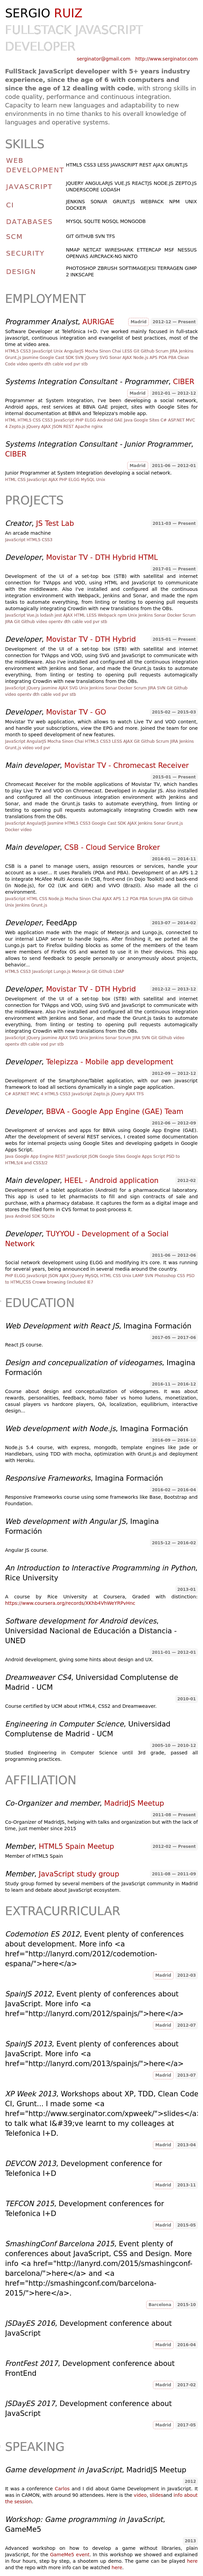
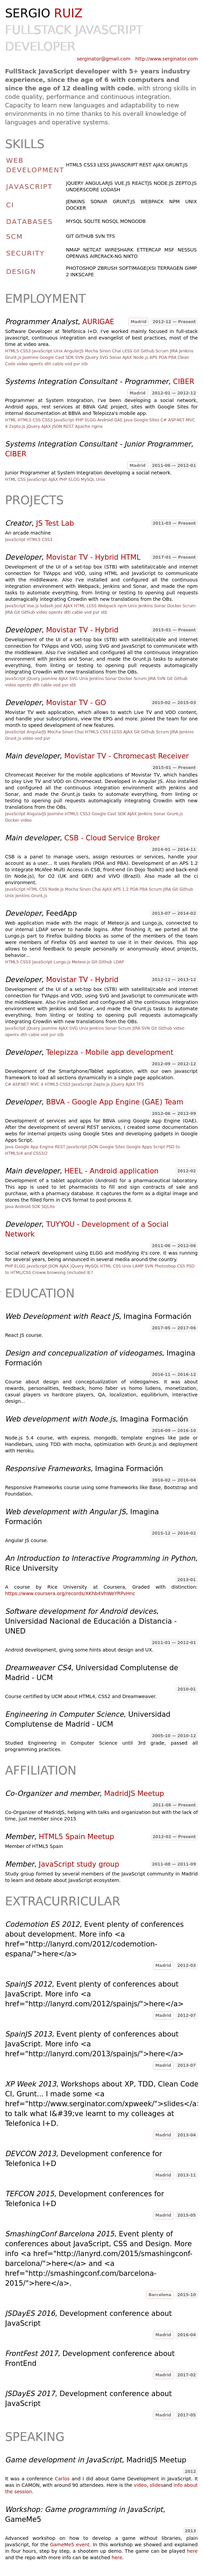
updated

diff --git a/out/resume.pdf.html b/out/resume.pdf.html
@@ -341,19 +341,19 @@ header > span.fa {
           </div>
           <div>
           <h3><em>Developer</em>,
-          <a href="http://www.movistar.com">Movistar TV - DTH Hybrid HTML</a>
+          <a href="http://www.movistar.com">Movistar TV - Hybrid HTML</a>
           </h3>
           <span class="tenure">2017-01 — Present</span>
-          <p>Development of the UI of a set-top box (STB) with satellital and internet connection for TVApps and VOD, using HTML and JavaScript to communicate with the middleware. Also I&#39;ve installed and configured all the continuous integration environment with Webpack, Jenkins and Sonar, and made the npm tasks to automate everything, from linting or testing to opening pull requests automagically integrating Crowdin with new translations from the OBs.</p>
+          <p>Development of the UI of a set-top box (STB) with satellital/cable and internet connection for TVApps and VOD, using HTML and JavaScript to communicate with the middleware. Also I&#39;ve installed and configured all the continuous integration environment with Webpack, Jenkins and Sonar, and made the npm tasks to automate everything, from linting or testing to opening pull requests automagically integrating Crowdin with new translations from the OBs.</p>
       
           <span class="keywords">JavaScript Vue.js lodash jest AJAX HTML LESS Webpack npm Unix Jenkins Sonar Docker Scrum JIRA Git Github video opentv dth cable vod pvr stb </span>    
           </div>
           <div>
           <h3><em>Developer</em>,
-          <a href="http://www.movistar.com">Movistar TV - DTH Hybrid</a>
+          <a href="http://www.movistar.com">Movistar TV - Hybrid</a>
           </h3>
           <span class="tenure">2015-01 — Present</span>
-          <p>Development of the UI of a set-top box (STB) with satellital and internet connection for TVApps and VOD, using SVG and JavaScript to communicate with the middleware. Also I&#39;ve installed and configured all the continuous integration environment with Jenkins and Sonar, and made the Grunt.js tasks to automate everything, from linting or testing to opening pull requests automagically integrating Crowdin with new translations from the OBs.</p>
+          <p>Development of the UI of a set-top box (STB) with satellital/cable and internet connection for TVApps and VOD, using SVG and JavaScript to communicate with the middleware. Also I&#39;ve installed and configured all the continuous integration environment with Jenkins and Sonar, and made the Grunt.js tasks to automate everything, from linting or testing to opening pull requests automagically integrating Crowdin with new translations from the OBs.</p>
       
           <span class="keywords">JavaScript jQuery jasmine AJAX SVG Unix Jenkins Sonar Docker Scrum JIRA SVN Git Github video opentv dth cable vod pvr stb </span>    
           </div>
@@ -395,10 +395,10 @@ header > span.fa {
           </div>
           <div>
           <h3><em>Developer</em>,
-          <a href="http://www.movistar.com">Movistar TV - DTH Hybrid</a>
+          <a href="http://www.movistar.com">Movistar TV - Hybrid</a>
           </h3>
           <span class="tenure">2012-12 — 2013-12</span>
-          <p>Development of the UI of a set-top box (STB) with satellital and internet connection for TVApps and VOD, using SVG and JavaScript to communicate with the middleware. Also I&#39;ve installed and configured all the continuous integration environment with Jenkins and Sonar, and made the Grunt.js tasks to automate everything, from linting or testing to opening pull requests automagically integrating Crowdin with new translations from the OBs.</p>
+          <p>Development of the UI of a set-top box (STB) with satellital/cable and internet connection for TVApps and VOD, using SVG and JavaScript to communicate with the middleware. Also I&#39;ve installed and configured all the continuous integration environment with Jenkins and Sonar, and made the Grunt.js tasks to automate everything, from linting or testing to opening pull requests automagically integrating Crowdin with new translations from the OBs.</p>
       
           <span class="keywords">JavaScript jQuery jasmine AJAX SVG Unix Jenkins Sonar Scrum JIRA SVN Git Github video opentv dth cable vod pvr stb </span>    
           </div>

diff --git a/out/resume.png.html b/out/resume.png.html
@@ -341,12 +341,12 @@
                 </div>
                 <div>
                      <h3><em>Developer</em>,
-          <a href="http://www.movistar.com">Movistar TV - DTH Hybrid HTML</a>
+          <a href="http://www.movistar.com">Movistar TV - Hybrid HTML</a>
           </h3>
  <span class="tenure">2017-01 — Present</span>
 
-                    <p>Development of the UI of a set-top box (STB) with satellital and internet
-                        connection for TVApps and VOD, using HTML and JavaScript to communicate
+                    <p>Development of the UI of a set-top box (STB) with satellital/cable and
+                        internet connection for TVApps and VOD, using HTML and JavaScript to communicate
                         with the middleware. Also I&#39;ve installed and configured all the continuous
                         integration environment with Webpack, Jenkins and Sonar, and made the npm
                         tasks to automate everything, from linting or testing to opening pull requests
@@ -357,12 +357,12 @@
                 </div>
                 <div>
                      <h3><em>Developer</em>,
-          <a href="http://www.movistar.com">Movistar TV - DTH Hybrid</a>
+          <a href="http://www.movistar.com">Movistar TV - Hybrid</a>
           </h3>
  <span class="tenure">2015-01 — Present</span>
 
-                    <p>Development of the UI of a set-top box (STB) with satellital and internet
-                        connection for TVApps and VOD, using SVG and JavaScript to communicate
+                    <p>Development of the UI of a set-top box (STB) with satellital/cable and
+                        internet connection for TVApps and VOD, using SVG and JavaScript to communicate
                         with the middleware. Also I&#39;ve installed and configured all the continuous
                         integration environment with Jenkins and Sonar, and made the Grunt.js tasks
                         to automate everything, from linting or testing to opening pull requests
@@ -421,12 +421,12 @@
                 </div>
                 <div>
                      <h3><em>Developer</em>,
-          <a href="http://www.movistar.com">Movistar TV - DTH Hybrid</a>
+          <a href="http://www.movistar.com">Movistar TV - Hybrid</a>
           </h3>
  <span class="tenure">2012-12 — 2013-12</span>
 
-                    <p>Development of the UI of a set-top box (STB) with satellital and internet
-                        connection for TVApps and VOD, using SVG and JavaScript to communicate
+                    <p>Development of the UI of a set-top box (STB) with satellital/cable and
+                        internet connection for TVApps and VOD, using SVG and JavaScript to communicate
                         with the middleware. Also I&#39;ve installed and configured all the continuous
                         integration environment with Jenkins and Sonar, and made the Grunt.js tasks
                         to automate everything, from linting or testing to opening pull requests

diff --git a/out/resume.html b/out/resume.html
@@ -313,9 +313,7 @@
         .contact-item,
         .publication,
         .skills,
-        .interests,
-        .job-details,
-        .job {
+        .interests {
           page-break-inside: avoid;
         }
         

diff --git a/out/resume.md b/out/resume.md
@@ -38,15 +38,15 @@ Junior Programmer at System Integration developing a social network.
 A website I made as a portfolio for a Japanese company I was going to work for before the tsunami in 2011.
 An arcade machine
 
-### *Developer*, [Movistar TV - DTH Hybrid HTML](http://www.movistar.com) (2017-01 — Present)
+### *Developer*, [Movistar TV - Hybrid HTML](http://www.movistar.com) (2017-01 — Present)
 
-A set-top box (STB) with satellital and internet connection for TVApps and VOD
-Development of the UI of a set-top box (STB) with satellital and internet connection for TVApps and VOD, using HTML and JavaScript to communicate with the middleware. Also I've installed and configured all the continuous integration environment with Webpack, Jenkins and Sonar, and made the npm tasks to automate everything, from linting or testing to opening pull requests automagically integrating Crowdin with new translations from the OBs.
+A set-top box (STB) with satellital/cable and internet connection for TVApps and VOD
+Development of the UI of a set-top box (STB) with satellital/cable and internet connection for TVApps and VOD, using HTML and JavaScript to communicate with the middleware. Also I've installed and configured all the continuous integration environment with Webpack, Jenkins and Sonar, and made the npm tasks to automate everything, from linting or testing to opening pull requests automagically integrating Crowdin with new translations from the OBs.
 
-### *Developer*, [Movistar TV - DTH Hybrid](http://www.movistar.com) (2015-01 — Present)
+### *Developer*, [Movistar TV - Hybrid](http://www.movistar.com) (2015-01 — Present)
 
-A set-top box (STB) with satellital and internet connection for TVApps and VOD
-Development of the UI of a set-top box (STB) with satellital and internet connection for TVApps and VOD, using SVG and JavaScript to communicate with the middleware. Also I've installed and configured all the continuous integration environment with Jenkins and Sonar, and made the Grunt.js tasks to automate everything, from linting or testing to opening pull requests automagically integrating Crowdin with new translations from the OBs.
+A set-top box (STB) with satellital/cable and internet connection for TVApps and VOD
+Development of the UI of a set-top box (STB) with satellital/cable and internet connection for TVApps and VOD, using SVG and JavaScript to communicate with the middleware. Also I've installed and configured all the continuous integration environment with Jenkins and Sonar, and made the Grunt.js tasks to automate everything, from linting or testing to opening pull requests automagically integrating Crowdin with new translations from the OBs.
 
 ### *Developer*, [Movistar TV - GO](http://www.movistar.com) (2015-02 — 2015-03)
 
@@ -68,10 +68,10 @@ CSB is a panel to manage users, assign resources or services, handle your accoun
 Web application connected to internal LDAP server which allows to send feedback to people personally or anonymously about projects, behavior...
 Web application made with the magic of Meteor.js and Lungo.js, connected to our internal LDAP server to handle logins. After finishing it, we ported all the Lungo.js part to Firefox building blocks as some of the members of the team were members of Firefox OS and wanted to use it in their devices. This app allows to send feedback to people personally or anonymously about projects, behavior...
 
-### *Developer*, [Movistar TV - DTH Hybrid](http://www.movistar.com) (2012-12 — 2013-12)
+### *Developer*, [Movistar TV - Hybrid](http://www.movistar.com) (2012-12 — 2013-12)
 
-A set-top box (STB) with satellital and internet connection for TVApps and VOD
-Development of the UI of a set-top box (STB) with satellital and internet connection for TVApps and VOD, using SVG and JavaScript to communicate with the middleware. Also I've installed and configured all the continuous integration environment with Jenkins and Sonar, and made the Grunt.js tasks to automate everything, from linting or testing to opening pull requests automagically integrating Crowdin with new translations from the OBs.
+A set-top box (STB) with satellital/cable and internet connection for TVApps and VOD
+Development of the UI of a set-top box (STB) with satellital/cable and internet connection for TVApps and VOD, using SVG and JavaScript to communicate with the middleware. Also I've installed and configured all the continuous integration environment with Jenkins and Sonar, and made the Grunt.js tasks to automate everything, from linting or testing to opening pull requests automagically integrating Crowdin with new translations from the OBs.
 
 ### *Developer*, [Telepizza - Mobile app development](http://www.telepizza.es) (2012-09 — 2012-12)
 
